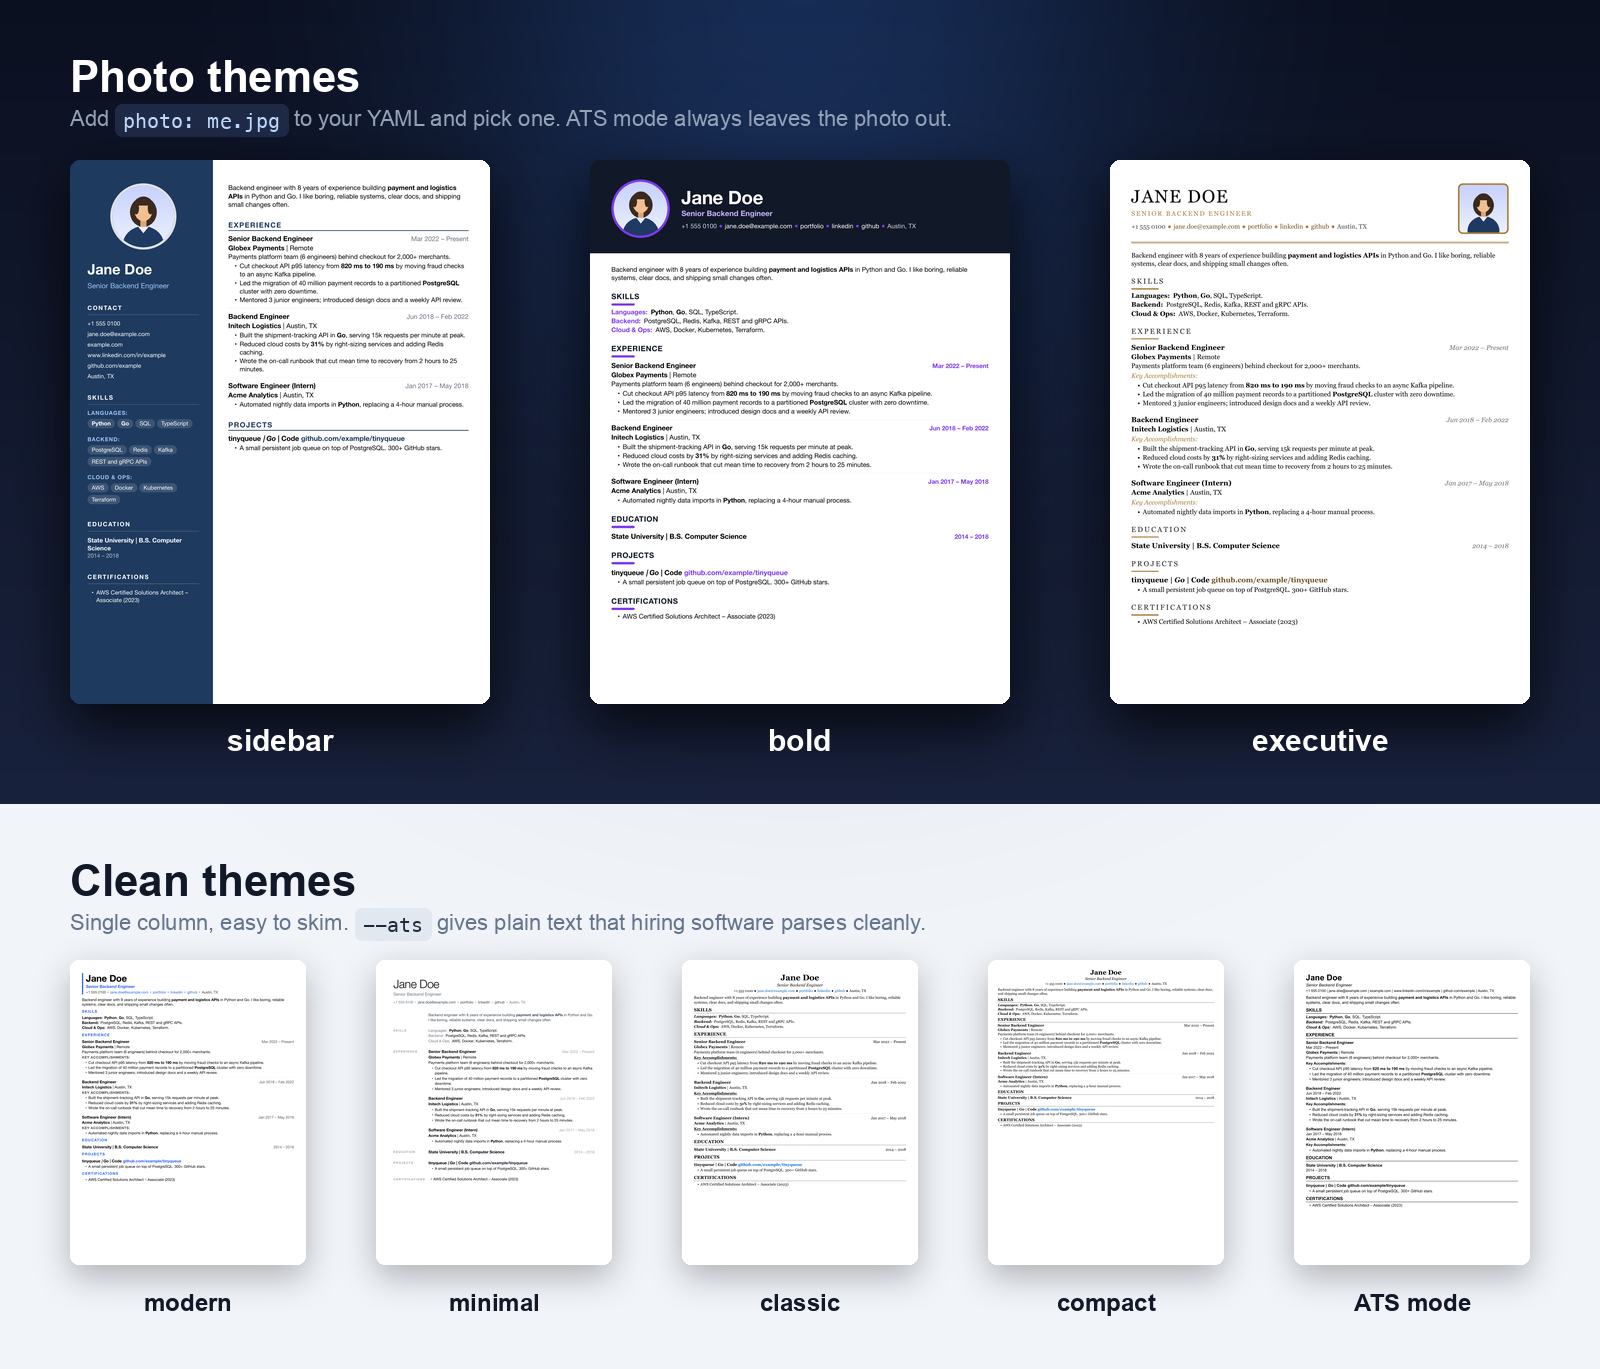
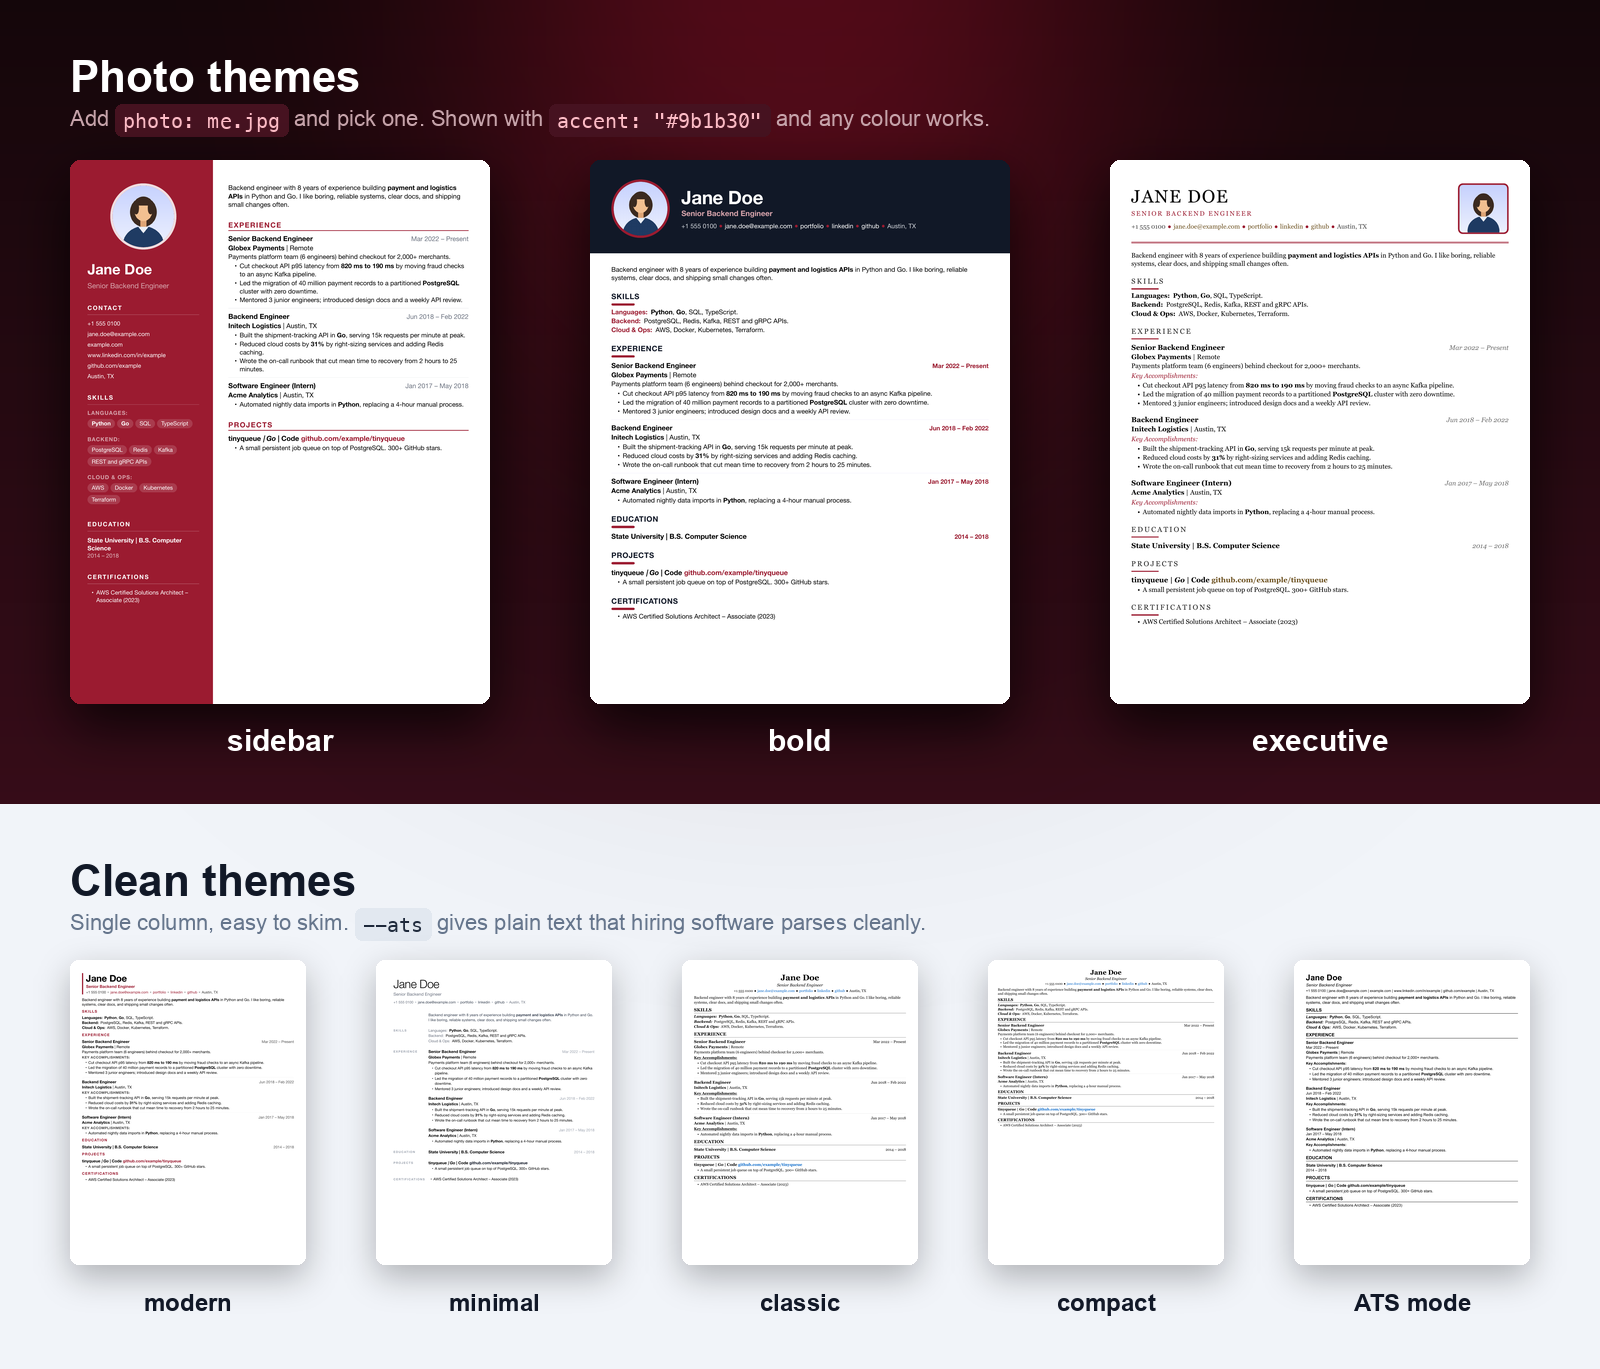
style(docs): royal red showcase and gallery, pages rendered with a red accent

diff --git a/docs/make_gallery.py b/docs/make_gallery.py
@@ -13,14 +13,17 @@ from pathlib import Path
 
 from PIL import Image, ImageDraw, ImageFilter, ImageFont
 
-from cv_as_code.build import THEMES, build_file, theme_names
+from cv_as_code.build import THEMES, load_yaml, render, theme_names, write_pdf
 
 ROOT = Path(__file__).resolve().parent.parent
 EXAMPLES = ROOT / "examples"
 OUT = ROOT / "docs" / "images"
 
-DARK, DARK_2, LIGHT = (11, 16, 32), (24, 33, 60), (241, 244, 249)
-WHITE, INK, MUTED_DARK, MUTED_LIGHT = (255, 255, 255), (17, 24, 39), (148, 163, 184), (100, 116, 139)
+# Dark "royal / Dracula" red brand palette, with the light band kept for contrast.
+DARK, DARK_2, LIGHT = (20, 6, 10), (54, 12, 24), (241, 244, 249)
+WHITE, INK, MUTED_DARK, MUTED_LIGHT = (255, 255, 255), (17, 24, 39), (201, 166, 173), (100, 116, 139)
+BRAND, BRIGHT, BLUSH = (179, 18, 46), (255, 92, 116), (255, 150, 165)
+ACCENT = "#9b1b30"  # pages in the images are rendered with this accent
 PHOTO_ORDER = ["sidebar", "bold", "executive"]
 CLEAN_ORDER = ["modern", "minimal", "classic", "compact"]
 
@@ -28,8 +31,11 @@ CLEAN_ORDER = ["modern", "minimal", "classic", "compact"]
 # ----------------------------------------------------------------- rendering
 
 def snapshot(yaml_name: str, theme: str, tmp: Path, ats: bool = False) -> Image.Image:
-    out = tmp / f"{theme}{'-ats' if ats else ''}"
-    pdf = next(p for p in build_file(EXAMPLES / yaml_name, out, theme=theme, ats=ats) if p.suffix == ".pdf")
+    data = load_yaml(EXAMPLES / yaml_name)
+    data["accent"] = ACCENT
+    kind = "cover_letter" if "sender" in data else "cv"
+    pdf = tmp / f"{Path(yaml_name).stem}-{theme}{'-ats' if ats else ''}.pdf"
+    assert write_pdf(render(data, kind, theme=theme, ats=ats, base_dir=EXAMPLES), pdf), "PDF rendering failed"
     subprocess.run(["pdftoppm", "-png", "-r", "150", "-singlefile", str(pdf), str(pdf.with_suffix(""))], check=True)
     return Image.open(pdf.with_suffix(".png")).convert("RGB")
 
@@ -133,12 +139,12 @@ def showcase(shots: dict[str, Image.Image], letters: dict[str, Image.Image]) -> 
     light = Image.new("RGBA", (W, H), (0, 0, 0, 0))
     ImageDraw.Draw(light).polygon([(W * 0.62, 0), (W, 0), (W, H), (W * 0.40, H)], fill=LIGHT + (255,))
     canvas.alpha_composite(light)
-    glow(canvas, (300, 260), 360, (59, 130, 246), 90)
-    glow(canvas, (1350, 760), 300, (124, 58, 237), 40)
+    glow(canvas, (300, 260), 360, BRAND, 120)
+    glow(canvas, (1350, 760), 300, BRIGHT, 45)
 
     d = ImageDraw.Draw(canvas)
     d.text((80, 70), "One YAML file.", font=font(54, bold=True), fill=WHITE)
-    d.text((80, 134), "Seven good-looking PDFs.", font=font(54, bold=True), fill=(147, 197, 253))
+    d.text((80, 134), "Seven good-looking PDFs.", font=font(54, bold=True), fill=BLUSH)
     d.text((W - 80, H - 60), "every page rendered by cv-as-code from examples/", font=font(20), fill=MUTED_LIGHT, anchor="rs")
 
     place(canvas, page(letters["bold"], 400), (470, 610), angle=8)
@@ -157,12 +163,12 @@ def gallery(shots: dict[str, Image.Image]) -> Image.Image:
     light_h = 150 + small_h + 110
     canvas = Image.new("RGBA", (W, dark_h + light_h), LIGHT + (255,))
     canvas.alpha_composite(vertical_gradient((W, dark_h), DARK, DARK_2))
-    glow(canvas, (W // 2, 120), 420, (59, 130, 246), 70)
+    glow(canvas, (W // 2, 120), 420, BRAND, 110)
 
     d = ImageDraw.Draw(canvas)
     d.text((pad, 52), "Photo themes", font=font(44, bold=True), fill=WHITE)
-    text_with_code(d, (pad, 106), ["Add", "photo: me.jpg", "to your YAML and pick one. ATS mode always leaves the photo out."],
-                   MUTED_DARK, (191, 219, 254), (30, 41, 70))
+    text_with_code(d, (pad, 106), ["Add", "photo: me.jpg", "and pick one. Shown with", f'accent: "{ACCENT}"', "and any colour works."],
+                   MUTED_DARK, (255, 190, 200), (70, 18, 32))
     gap = (W - 2 * pad - 3 * big_w) // 2
     for i, name in enumerate(PHOTO_ORDER):
         cx = pad + big_w // 2 + i * (big_w + gap)
